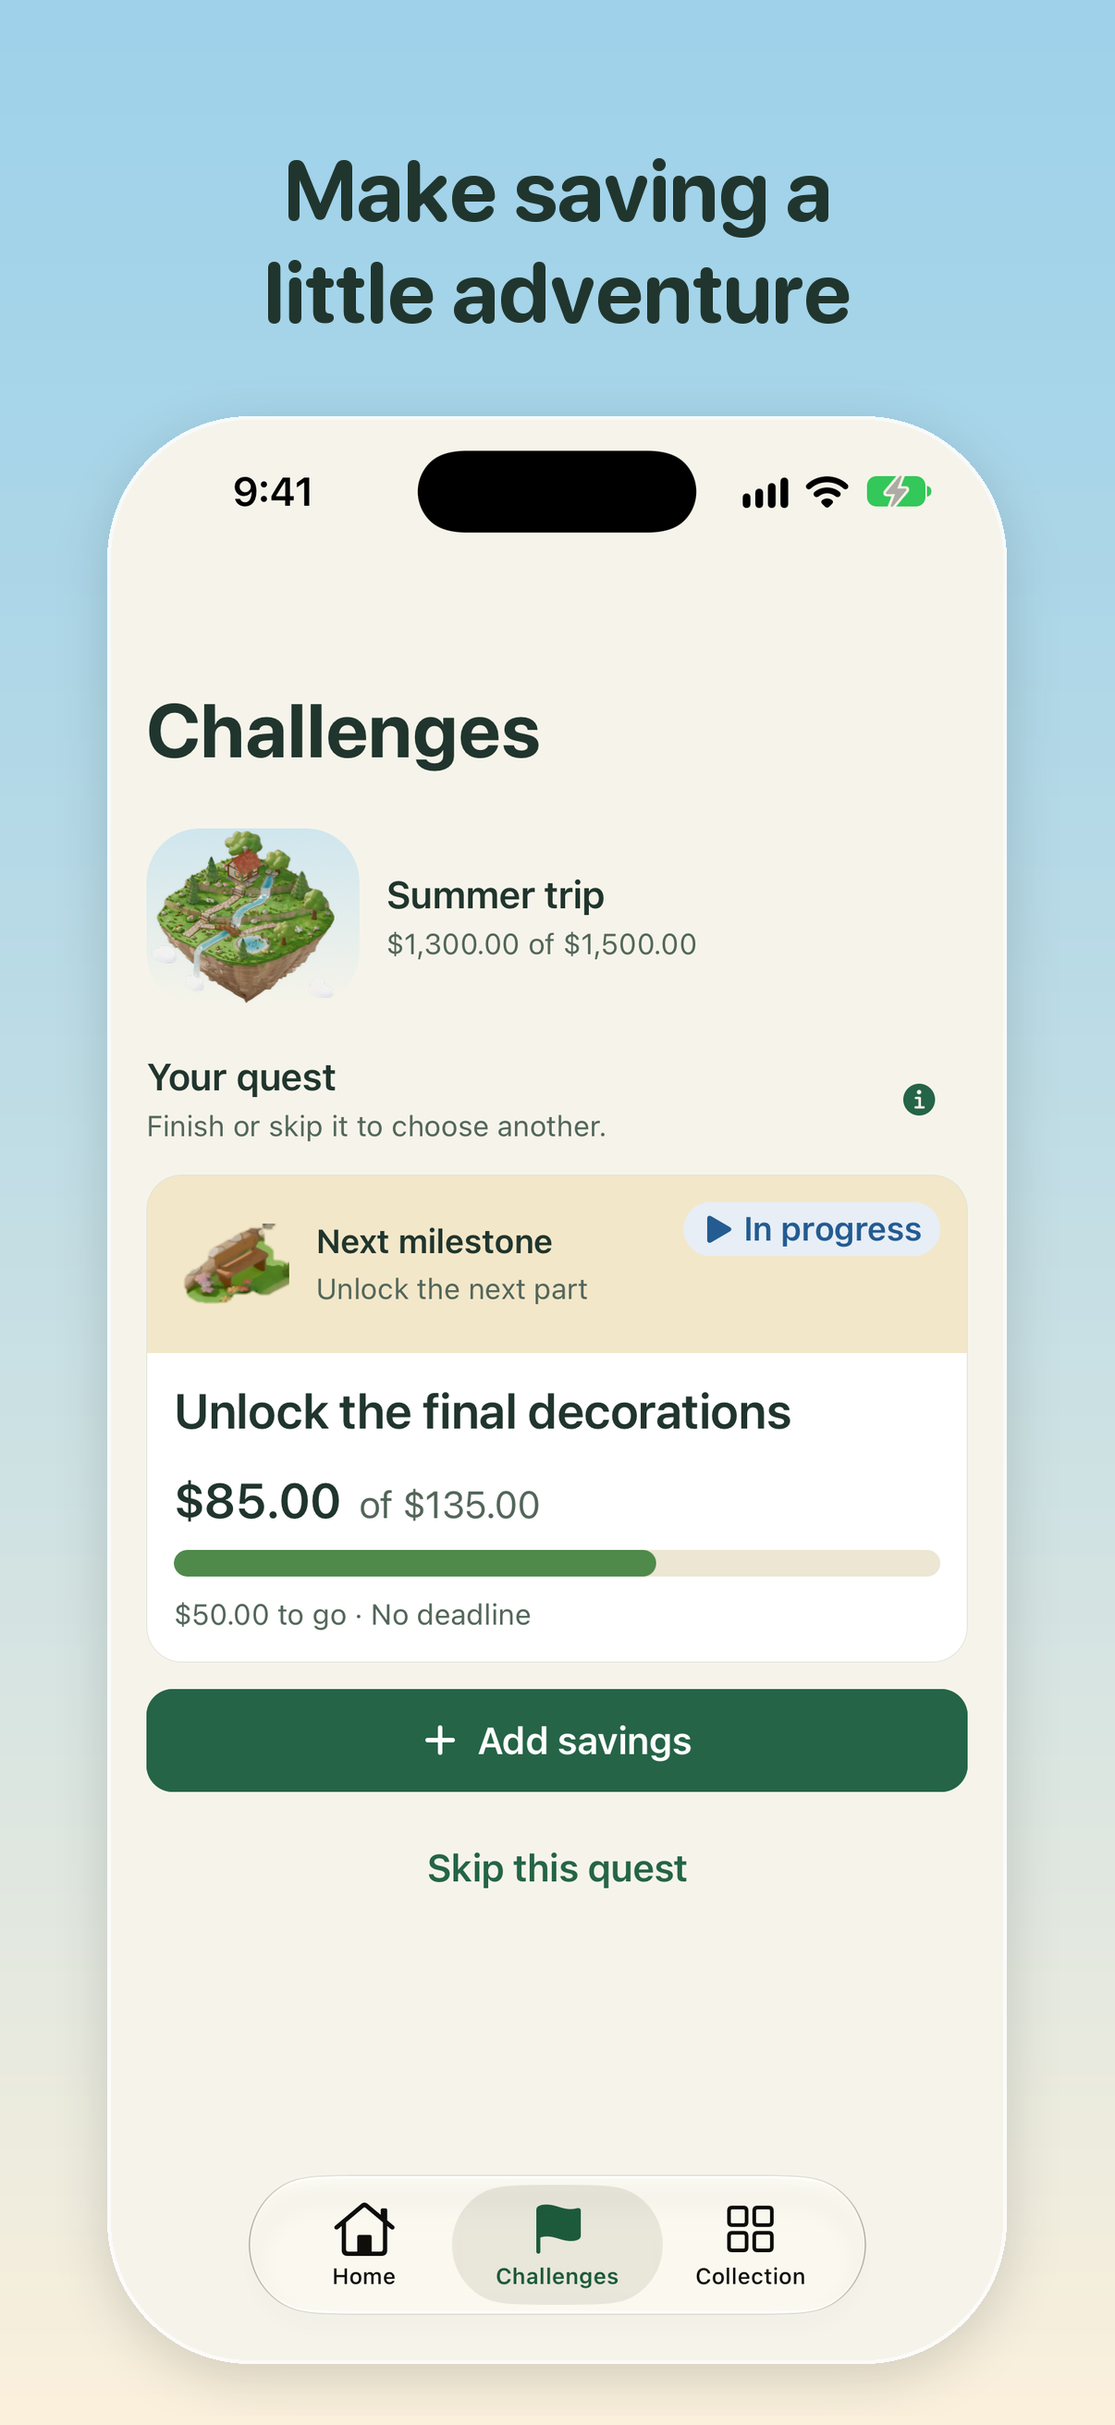
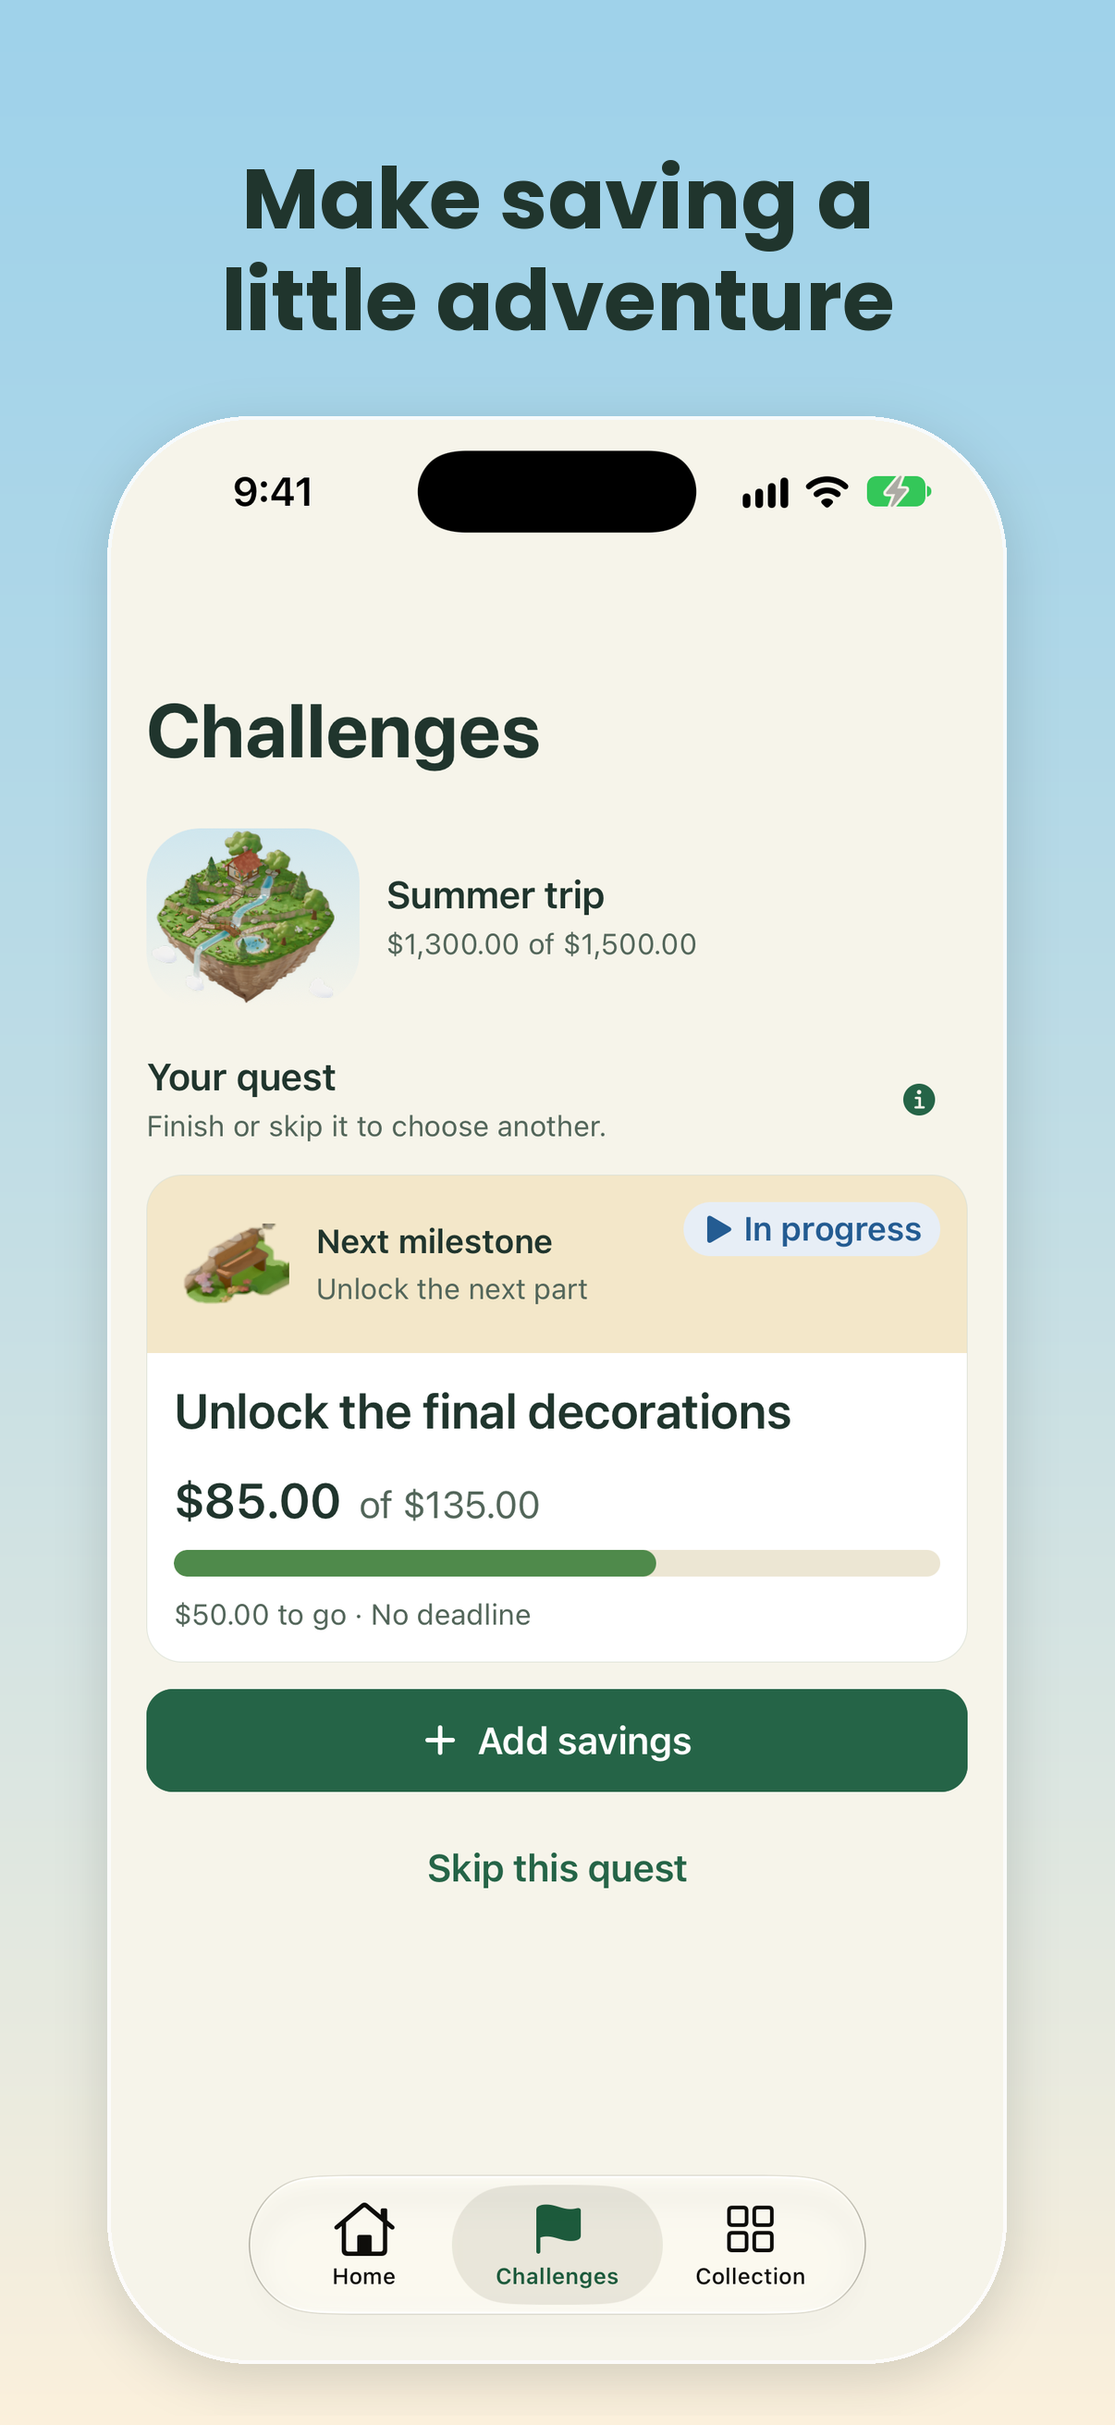
Release 1.0.1: version bump and new App Store screenshots (D148)

Changed region(s): [[0.1841, 0.0618, 0.7977, 0.1545]]

diff --git a/app.config.ts b/app.config.ts
@@ -22,7 +22,7 @@ export default ({ config }: ConfigContext): ExpoConfig => ({
   owner: 'bosko123',
   // appVersion runtime policy: any native, SDK, permission or persisted-data contract change
   // requires a new `version` (and native build). Bumping only ios.buildNumber keeps the runtime.
-  version: '1.0.0',
+  version: '1.0.1',
   runtimeVersion: { policy: 'appVersion' },
   scheme: 'savingworlds',
   platforms: ['ios'],

diff --git a/tests/unit/delivery-config.test.ts b/tests/unit/delivery-config.test.ts
@@ -36,7 +36,7 @@ describe('app.config.ts', () => {
 
   it('uses the appVersion runtime policy', () => {
     expect(config.runtimeVersion).toEqual({ policy: 'appVersion' });
-    expect(config.version).toBe('1.0.0');
+    expect(config.version).toBe('1.0.1');
   });
 
   it('starts without waiting for the network and activates updates on a later launch', () => {

diff --git a/store/scripts/frame_screenshots.py b/store/scripts/frame_screenshots.py
@@ -9,7 +9,10 @@ product page header (compose_header.py). Apple accepts 1206 x 2622 for "iPhone w
 Captions follow Apple's asset guidance: a short phrase that adds to the picture, no price, URL, award
 or other platform. Colors are the app's palette (src/shared/theme/palette.ts): forest900 text.
 
-Input list: store/screenshots/shots.json, [{"file": "raw/01-home.png", "caption": "..."}, ...]
+Input list: store/screenshots/shots.json, [{"file": "raw/01-home.png", "caption": "..."}, ...].
+An item with "hero" instead of "file" makes the opening panel from the approved Island renders
+(assets/worlds/island/renders/milestones): the same island at the listed stages, growing, with a
+percentage pill on each. Nothing is invented; it is the art the app shows at those milestones.
 Output: store/screenshots/en-US/NN-<name>.png (RGB, no alpha).
 
 Run (Pillow in any Python 3 environment):
@@ -29,7 +32,13 @@ WIDTH, HEIGHT = 1206, 2622
 SKY_TOP = (0x9F, 0xD2, 0xEA)
 SKY_BOTTOM = (0xFB, 0xF0, 0xDC)
 TEXT = (0x20, 0x35, 0x2D)  # palette.forest900
-FONT = '/System/Library/Fonts/SFNSRounded.ttf'
+# SF Rounded on a Mac; Poppins where SF is not installed (Linux). One run uses one font for every panel.
+FONTS = [
+    ('/System/Library/Fonts/SFNSRounded.ttf', '/System/Library/Fonts/SFNSRounded.ttf'),
+    ('/usr/share/fonts/truetype/google-fonts/Poppins-Bold.ttf', '/usr/share/fonts/truetype/google-fonts/Poppins-Medium.ttf'),
+]
+SUBTEXT = (0x3D, 0x5A, 0x4C)
+ISLAND = ROOT / 'assets/worlds/island/renders/milestones'
 
 SCREEN_SCALE = 0.80
 CORNER = 150  # iPhone 17 Pro display corner at 3x, scaled
@@ -46,13 +55,34 @@ def sky() -> Image.Image:
     return column.resize((WIDTH, HEIGHT), Image.BICUBIC)
 
 
-def caption_font() -> ImageFont.FreeTypeFont:
-    font = ImageFont.truetype(FONT, CAPTION_SIZE)
+def font_pair() -> tuple[str, str]:
+    for bold, medium in FONTS:
+        if Path(bold).exists():
+            return bold, medium
+    raise SystemExit('no caption font found')
+
+
+def caption_font(size: int = CAPTION_SIZE, weight: str = 'Bold') -> ImageFont.FreeTypeFont:
+    bold, medium = font_pair()
+    font = ImageFont.truetype(bold if weight == 'Bold' else medium, size)
     try:
-        font.set_variation_by_name('Bold')
+        font.set_variation_by_name(weight)
     except (OSError, ValueError):
         pass
     return font
+
+
+def draw_caption(canvas: Image.Image, caption: str, top: int, size: int = CAPTION_SIZE) -> int:
+    draw = ImageDraw.Draw(canvas)
+    font = caption_font(size)
+    y = top
+    # A "\n" in the caption sets the line break (balanced lines); each part still wraps if too wide.
+    lines = [line for part in caption.split('\n') for line in wrap(draw, part, font, WIDTH - 2 * 90)]
+    for line in lines:
+        width = draw.textlength(line, font=font)
+        draw.text(((WIDTH - width) / 2, y), line, font=font, fill=TEXT)
+        y += size + LINE_GAP
+    return y
 
 
 def wrap(draw: ImageDraw.ImageDraw, text: str, font: ImageFont.FreeTypeFont, max_width: int) -> list[str]:
@@ -68,15 +98,7 @@ def wrap(draw: ImageDraw.ImageDraw, text: str, font: ImageFont.FreeTypeFont, max
 
 def frame(capture: Path, caption: str) -> Image.Image:
     canvas = sky().convert('RGBA')
-    draw = ImageDraw.Draw(canvas)
-    font = caption_font()
-    y = CAPTION_TOP
-    # A "\n" in the caption sets the line break (balanced lines); each part still wraps if too wide.
-    lines = [line for part in caption.split('\n') for line in wrap(draw, part, font, WIDTH - 2 * 90)]
-    for line in lines:
-        width = draw.textlength(line, font=font)
-        draw.text(((WIDTH - width) / 2, y), line, font=font, fill=TEXT)
-        y += CAPTION_SIZE + LINE_GAP
+    draw_caption(canvas, caption, CAPTION_TOP)
 
     shot = Image.open(capture).convert('RGB')
     if shot.size != (WIDTH, HEIGHT):
@@ -98,12 +120,74 @@ def frame(capture: Path, caption: str) -> Image.Image:
     return canvas.convert('RGB')
 
 
+def island(stage: int, width: int) -> Image.Image:
+    art = Image.open(ISLAND / f'island_stage{stage:02d}_preview.png').convert('RGBA')
+    art = art.crop(art.getchannel('A').getbbox())
+    return art.resize((width, round(art.height * width / art.width)), Image.LANCZOS)
+
+
+def pill(canvas: Image.Image, text: str, center: tuple[int, int], size: int = 54) -> None:
+    font = caption_font(size)
+    draw = ImageDraw.Draw(canvas)
+    left, top, right, bottom = draw.textbbox((0, 0), text, font=font)
+    w, h = right - left + 64, bottom - top + 36
+    x, y = center[0] - w // 2, center[1] - h // 2
+    shadow = Image.new('RGBA', (w + 60, h + 60), (0, 0, 0, 0))
+    ImageDraw.Draw(shadow).rounded_rectangle((30, 36, w + 30, h + 36), radius=h // 2, fill=(32, 53, 45, 50))
+    canvas.alpha_composite(shadow.filter(ImageFilter.GaussianBlur(14)), (x - 30, y - 30))
+    ImageDraw.Draw(canvas).rounded_rectangle((x, y, x + w, y + h), radius=h // 2, fill=(255, 255, 255, 245))
+    draw.text((x + 32 - left, y + 18 - top), text, font=font, fill=TEXT)
+
+
+def dots(canvas: Image.Image, start: tuple[int, int], end: tuple[int, int], bend: int) -> None:
+    draw = ImageDraw.Draw(canvas)
+    (x0, y0), (x1, y1) = start, end
+    cx, cy = (x0 + x1) / 2 + bend, (y0 + y1) / 2
+    for i in range(1, 12):
+        t = i / 12
+        x = (1 - t) ** 2 * x0 + 2 * (1 - t) * t * cx + t * t * x1
+        y = (1 - t) ** 2 * y0 + 2 * (1 - t) * t * cy + t * t * y1
+        draw.ellipse((x - 7, y - 7, x + 7, y + 7), fill=(255, 255, 255, 235))
+
+
+def hero(spec: dict, caption: str) -> Image.Image:
+    canvas = sky().convert('RGBA')
+    y = draw_caption(canvas, caption, CAPTION_TOP - 10, 104)
+    if spec.get('subtitle'):
+        font = caption_font(50, 'Medium')
+        draw = ImageDraw.Draw(canvas)
+        width = draw.textlength(spec['subtitle'], font=font)
+        draw.text(((WIDTH - width) / 2, y + 14), spec['subtitle'], font=font, fill=SUBTEXT)
+    # Small -> large, zig-zag down the panel: start (left), halfway (right), complete (centre).
+    layout = [  # (width, left x, top y)
+        (520, 80, 500),
+        (660, 470, 950),
+        (1080, 63, 1650),
+    ]
+    placed = []
+    for stage, (width, x, top) in zip(spec['stages'], layout):
+        art = island(stage, width)
+        canvas.alpha_composite(art, (x, top))
+        placed.append((x, top, art.width, art.height))
+    (x0, t0, w0, h0), (x1, t1, w1, h1), (x2, t2, w2, h2) = placed
+    dots(canvas, (x0 + w0 // 2 + 130, t0 + h0 - 20), (x1 + 40, t1 + h1 // 2 - 40), -60)
+    dots(canvas, (x1 + 60, t1 + h1 - 60), (x2 + w2 // 2 - 300, t2 + 90), 40)
+    for label, (x, t, w, h) in zip(spec['labels'], placed):
+        pill(canvas, label, (x + w // 2, t + h - 40))
+    return canvas.convert('RGB')
+
+
 def main() -> None:
     OUT.mkdir(parents=True, exist_ok=True)
     for index, item in enumerate(json.loads((SHOTS / 'shots.json').read_text()), start=1):
-        source = SHOTS / item['file']
-        name = f"{index:02d}-{Path(item['file']).stem.split('-', 1)[-1]}.png"
-        frame(source, item['caption']).save(OUT / name, optimize=True)
+        if 'hero' in item:
+            name = f'{index:02d}-{item["name"]}.png'
+            image = hero(item['hero'], item['caption'])
+        else:
+            source = SHOTS / item['file']
+            name = f"{index:02d}-{Path(item['file']).stem.split('-', 1)[-1]}.png"
+            image = frame(source, item['caption'])
+        image.save(OUT / name, optimize=True)
         print('wrote', OUT / name)
 
 

diff --git a/docs/DECISIONS.md b/docs/DECISIONS.md
@@ -289,6 +289,7 @@ Evidence: [PHASE_08](evidence/PHASE_08.md). D70, D72, D73, D74 and D75 are the o
 | --- | --- | --- | --- |
 | D146 | Owner decided (27 October 2026, Phase 22, in progress): build method, store name, upload permission and screenshot headlines by the owner; the rest an engineering/listing baseline for owner review. No product rule changed | **First App Store build, store name and store materials.** (1) **Build.** The App Store build is made locally with `eas build --profile production --local` (owner's choice: no EAS build quota), same Xcode 27.1 (27A9275) and CocoaPods 1.17.0 as the EAS image; EAS keeps the credentials (existing Apple Distribution certificate, new App Store profile, team type Individual, no push). Build 1.0.0 (7), runtime 1.0.0, fingerprint c83b89a5… (the shared runtime's), channel production. A local build has no EAS build ID, so it is recorded in the Phase 22 evidence instead of `runtime-contracts.json`. (2) **Store name** "Saving Worlds" (matches the home-screen name; the App Store Connect record is still "SavingWorlds" until entered). The App Store Connect version becomes **1.0.0** to match the binary; changing the app to 1.0 would change runtime 1.0.0. (3) **App Privacy** is disclosed, not "Data Not Collected": Device ID (EAS Update's random install ID) and Crash Data (the one error message after a failed launch), not linked, no tracking. PRIVACY.md also names the user agent and preferred language iOS adds to update requests (owner to approve and push). (4) **Screenshots** show only real release-build screens with data written by the app's own commands (`tests/native/store-fixture.ts`) or the app's own UI; Pro is never seeded, so Pro screens come from a real sandbox/TestFlight purchase. Owner's headlines and order: Home "Watch your savings come to life", Add savings "Every little saving counts", Challenges "Make saving a little adventure", History "Keep track of every step", Collection "Every goal becomes a world"; optional Garden "Unlock a whole new world" kept separate. Framing script `store/scripts/frame_screenshots.py` (caption on the icon's sky, rounded screen, nothing painted over). (5) **Header** (iOS 27 creative asset) composed from the approved stage 10 Island and Garden renders, no text, by `store/scripts/compose_header.py`. The owner approved the five screenshots and the header as shown (27 October 2026). (6) **Delivery (27 October, owner's go):** build 7 uploaded to TestFlight with `eas submit` (internal testing only) and the store materials entered in App Store Connect via the API; the description and promotional text are the owner's own wording in App Store Connect and are never overwritten from a draft; the Garden screenshot is dropped. The owner filled App Review information and App Privacy, chose automatic release after approval and submitted 1.0.0 with the Pro IAP for review (27 October 2026). | Store upload, App Store Connect edits and submission stay owner actions: the owner approved the TestFlight upload, but the session's permission guard refused it, so it is NOT RUN. Mixing a local and EAS build history means the next EAS production build continues the remote build number (8+). Installing fastlane upgraded Homebrew Ruby and required reinstalling CocoaPods (1.16.2 → 1.17.0) on the owner's Mac. Phase 22 stays IN PROGRESS until the TestFlight build is installed and tested and the drafts are approved. |
 | D147 | Owner decided (10 November 2026, Phase 22): "Yes, fix it" after App Review's 2.1(b) rejection | **The Pro screen recovers from an empty or failed storefront answer.** App Review (9 November, iPad Air M4, iPadOS 27.2) got no product from StoreKit and saw a disabled Unlock Pro with no way forward; the product, price and agreement load in sandbox on iPhone and on the same iPad/iPadOS in the simulator. `useProProduct` now asks again on its own after 2, 5 and 10 s while the screen is open, and "Try again" shows for a missing product as well as for an error. No copy, price or purchase-rule change. Shipped as 1.0.0 (8) on runtime 1.0.0 (JS only, fingerprint unchanged), built locally like build 7. | A missing product can still appear if the storefront never answers; the person keeps "Try again" and Restore. Build 8 replaces build 7 for review; upload, the reply to App Review and resubmission stay owner actions. |
+| D148 | Owner decided (23 November 2026, after 1.0.0 was approved): new version 1.0.1 "small UI fixes" and better store screenshots | **1.0.1 is a version-only release so App Store Connect accepts new answers to two questions that cannot be edited on the approved version** (owner answers both NO). `version` 1.0.1 in app.config.ts/package.json (runtime policy appVersion → new runtime 1.0.1, needs a new store build; not yet recorded in `delivery/runtime-contracts.json` until a build is made). No app behavior change. **Screenshots:** the Add savings form is dropped (owner); a hero panel "Save money. Grow a world." made by `frame_screenshots.py` from the approved Island renders (stages 0/5/10 with 0%/50%/100% pills) opens the set; the real "Your island is complete!" capture is added; order Hero, Home, Challenges, Island complete, Collection, History (six panels, 1206 × 2622 RGB). Captions use SF Rounded on a Mac and Poppins elsewhere; this set was framed with Poppins. The 1.0.0 set is kept in `store/screenshots/en-US-1.0.0/`. | Users on 1.0.0 keep receiving only runtime-1.0.0 OTA updates; 1.0.1 starts its own runtime. Jest not run in this session (no node_modules on the session's machine); only the version expectation in `delivery-config.test.ts` changed. |
 
 ## Open register
 

diff --git a/store/README.md b/store/README.md
@@ -1,4 +1,23 @@
-# App Store materials for Saving Worlds 1.0.0 (Phase 22)
+# App Store materials for Saving Worlds
+
+## Version 1.0.1 (23 November 2026, D148)
+
+1.0.0 was approved by Apple. 1.0.1 exists so two App Store Connect questions that are locked on the approved version can be answered (owner: both NO). No app behavior change; `version` 1.0.1, new runtime 1.0.1.
+
+- **What's New in This Version:** "Small UI fixes and improvements."
+- **Screenshots** (replace all of the 1.0.0 set in "iPhone 6.3-inch (Dynamic Island, medium)"), from [screenshots/en-US/](screenshots/en-US/), preview [screenshots/preview.png](screenshots/preview.png):
+  1. `01-grow-a-world.png` "Save money. Grow a world." (approved Island renders at 0/50/100%)
+  2. `02-home.png` "Watch your savings come to life"
+  3. `03-challenges.png` "Make saving a little adventure"
+  4. `04-island-complete.png` "Reach your goal, complete your world" (real capture of the completion moment)
+  5. `05-collection.png` "Every goal becomes a world"
+  6. `06-history.png` "Keep track of every step"
+- The Add savings screenshot is dropped (owner). The 1.0.0 set is kept in `screenshots/en-US-1.0.0/`. `screenshots/_to_delete/` holds two stale drafts to delete.
+- Build: `npm run eas -- build --profile production --platform ios --local` (as builds 7/8), then `npm run eas -- submit --platform ios --path <ipa>`; the build number continues automatically. Then record the build with `node scripts/release-check.mjs --record <build-id> --reason "1.0.1 store build"` if it is an EAS build.
+
+---
+
+## Version 1.0.0 (Phase 22)
 
 Drafts prepared on 27 October 2026 from the shipped release candidate. Nothing in this folder is in App Store Connect until the owner approves it and says go (Phase 22 owner answer: "after I review drafts"). Evidence: [PHASE_22](../docs/evidence/PHASE_22.md).
 

diff --git a/docs/PROJECT_STATUS.md b/docs/PROJECT_STATUS.md
@@ -4,6 +4,7 @@ Updated 27 October 2026 during Phase 22 (App Store release preparation; **IN PRO
 
 ## Current state
 
+- **23 November 2026 (D148):** 1.0.0 approved by Apple. Preparing **1.0.1** (version-only "small UI fixes" release so two locked App Store Connect questions can be answered NO): `version` 1.0.1 (new runtime 1.0.1), new six-panel screenshot set in `store/screenshots/en-US/` (hero growth panel, Add savings dropped, completion moment added). Next: owner's local store build + upload, then App Store Connect version 1.0.1 with the new screenshots and What's New text from `store/README.md`. Jest not run this session.
 - Current stage: **Phase 22 IN PROGRESS** ([evidence](evidence/PHASE_22.md), D146). Next prompt: [PHASE_22](prompts/PHASE_22.md) (continue).
   - Release states: implementation complete · release checks **not** complete · **signed App Store candidate prepared** (local `eas build`, 1.0.0 build 7, runtime 1.0.0, fingerprint c83b89a5…, channel production, App Store profile, distribution certificate "Bosko Jaksic"; IPA SHA-256 d5e149c4…) · **uploaded to TestFlight** (build 7 VALID, internal testing, attached to version 1.0.0) · **submitted for review by the owner** (review submission 4b88da3d, 2026-10-27 20:57 UTC: version 1.0.0 build 7 and Saving Worlds Pro, both WAITING_FOR_REVIEW; release type changed by the owner to automatic after approval) · not approved · not live.
   - Rechecked Apple's current requirements (Xcode 26+/iOS 26 SDK, iOS 13+ target, new age-rating questionnaire, required-reason privacy manifests, medium Dynamic Island screenshot set, iOS 27 header asset, IAP and listing limits): the build meets them; archive inspection of the RC and the store build PASS (16 manifests, no tracking, no collected types, reasons for every required-reason API, no usage strings, no push entitlement).
